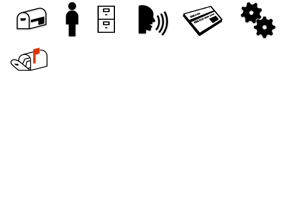
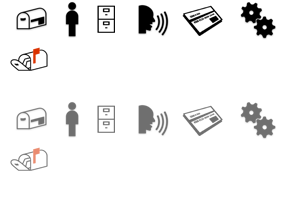
sidebar navigation: hover effects

diff --git a/bibsonomy-webapp/src/main/webapp/resources/css/style.css b/bibsonomy-webapp/src/main/webapp/resources/css/style.css
@@ -384,33 +384,58 @@ a:hover {
 }
 
 .sidebarnavi_entry_01 {
-    background-position: -10px 5px;
+    background-position: -10px 124px;
     left: 0px;
 }
 
+.sidebarnavi_entry_01:hover {
+    background-position: -10px 5px;
+}
+
 .sidebarnavi_entry_02 {
-    background-position: -50px 5px;
+    background-position: -50px 124px;
     left: 44px;
 }
 
+.sidebarnavi_entry_02:hover {
+    background-position: -50px 5px;
+}
+
 .sidebarnavi_entry_03 {
-    background-position: -84px 5px;
+    background-position: -84px 124px;
     left: 88px;
 }
 
+.sidebarnavi_entry_03:hover {
+    background-position: -84px 5px;
+}
+
 .sidebarnavi_entry_04 {
-    background-position: -130px 5px;
+    background-position: -130px 124px;
     left: 132px;
 }
 
+.sidebarnavi_entry_04:hover {
+    background-position: -130px 5px;
+}
+
 .sidebarnavi_entry_05 {
-    background-position: -181px 5px;
+    background-position: -181px 124px;
     left: 176px;
 }
 
+.sidebarnavi_entry_05:hover {
+    background-position: -181px 5px;
+}
+
 .sidebarnavi_entry_06 {
-    background-position: -236px 5px;
+    background-position: -236px 124px;
     left: 220px;
+}
+
+.sidebarnavi_entry_06:hover {
+    background-position: -236px 5px;
+
 }
 
 
